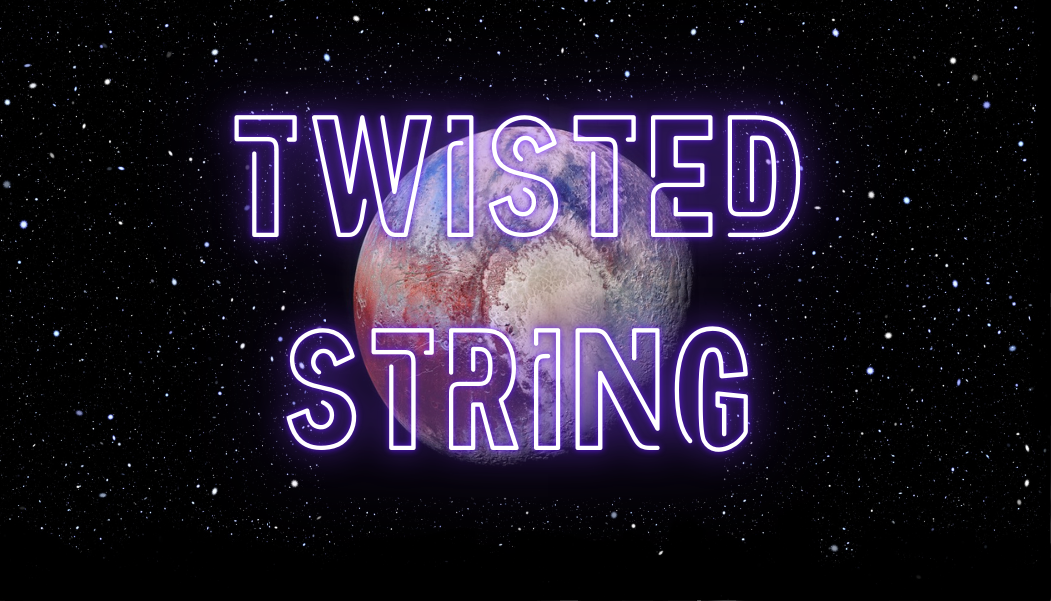
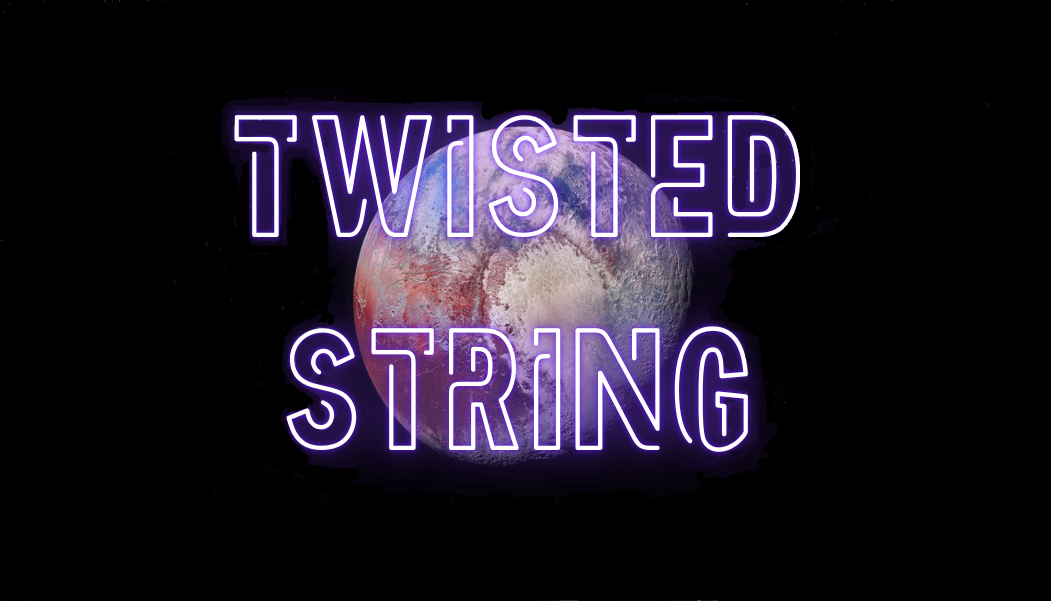
UI changes

diff --git a/stylesheet.css b/stylesheet.css
@@ -1,5 +1,6 @@
 body {
     background-color: black;
+    font-family: Andale Mono, monospace;
 }
 #imgbackground {
     display: flex;
@@ -31,6 +32,7 @@ body {
     color: white;
     border: 1px solid gray;
     transition-duration: 0.6s;
+    font-size: 14;
     
 }
 .navbutton:active {
@@ -38,7 +40,7 @@ body {
 }
 
 .navbutton:hover {
-    background-color: gray;
+    background-color: white;
     opacity: 50%;
     color: black;
     scale: 1.1;
@@ -51,8 +53,11 @@ body {
 }
 #inneroutercontainer {
     padding-bottom: 30%;
-    border-radius: 40px;
-    border: .5px solid gray;
+    border: 1px solid white;
+    border-radius: 10em;
+    /* box-shadow: 0 0 0 0 white; */
+    box-shadow: 20px 20px 0 -2.5px rgb(218, 167, 235), 20px 20px 0 0 #000;
+    
 
 }
 #aboutmecontents {
@@ -101,3 +106,27 @@ body {
     outline-offset: .2em;
     border-radius: .2em;
 }
+.newbutton {
+    background-color: black;
+    color: white;
+    border-radius: 10em;
+    font-size: 14px;
+    font-family: Andale Mono, monospace;
+    font-weight: 300;
+    padding: 1em 2em;
+    padding-inline: 3em;
+    cursor: pointer;
+    transition: all 0.3s ease-in-out;
+    border: 1px solid white;
+    box-shadow: 0 0 0 0 white;
+  }
+  
+.newbutton:hover {
+    transform: translateY(-4px) translateX(-2px);
+    box-shadow: 2px 5px 0 0 rgb(214, 144, 238);
+};
+  
+.newbutton:active {
+    transform: translateY(2px) translateX(1px);
+    box-shadow: 0 0 0 0 black;
+};

diff --git a/index.html b/index.html
@@ -32,19 +32,17 @@
 <body>
     <div id="header">
         <div id="imgbackground">
-            <img id="headerimg" src="3.png" alt="Italian Trulli">
             <img id="headerimg" src="2.png" alt="Italian Trulli">
-            <img id="headerimg" src="3.png" alt="Italian Trulli">
         </div>
         <div id="navbartoplevel">
             <div class="navbuttoncontainer">
-                <button class="navbutton" id="aboutmebutton" onclick="buttonPressed(this.id)" class="navbutton">About Me</button>
+                <button class="newbutton" id="aboutmebutton" onclick="buttonPressed(this.id)" class="navbutton">About Me</button>
             </div>
             <div class="navbuttoncontainer">
-                <button class="navbutton" id="gallerybutton" onclick="buttonPressed(this.id)" class="navbutton">Gallery</button>
+                <button class="newbutton" id="gallerybutton" onclick="buttonPressed(this.id)" class="navbutton">Gallery</button>
             </div>
             <div class="navbuttoncontainer">
-                <button class="navbutton" id="commissionsbutton" onclick="buttonPressed(this.id)" class="navbutton">Commissions</button>
+                <button class="newbutton" id="commissionsbutton" onclick="buttonPressed(this.id)" class="navbutton">Commissions</button>
             </div>
         </div>
     </div>
